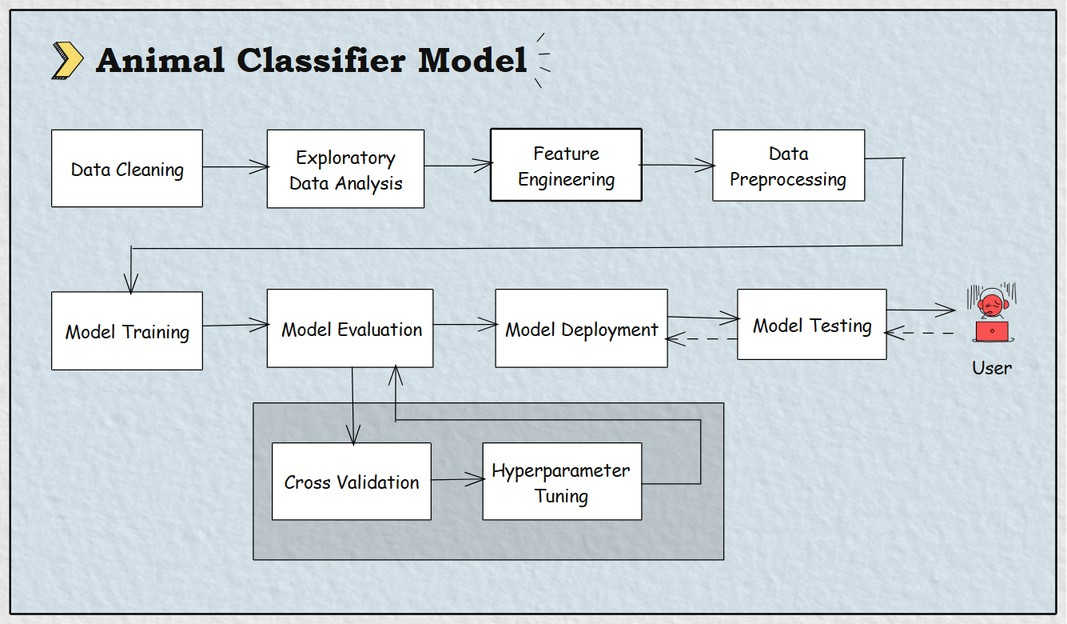
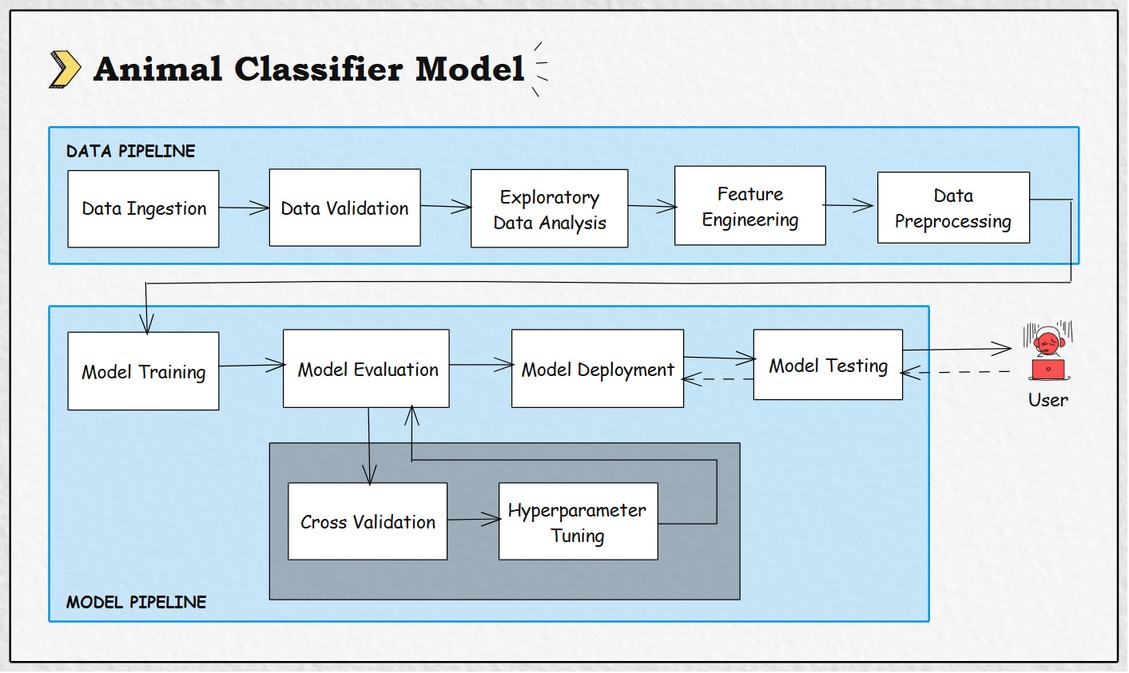
🚀add model workflow

diff --git a/README.md b/README.md
@@ -15,7 +15,7 @@
 
 - [Overview](#overview)
 - [Datasets](#datasets)
-- [MLOps Pipeline](#mlops-pipeline)
+- [Model Workflow](#model-workflow)
 - [Setup & Installation](#setup--installation)
     - [Clone repo](#step-1-clone-the-repository)
     - [Create Virtual Environment](#step-2-create-virtual-environment)
@@ -63,9 +63,9 @@ The main dataset used is [zoo_animals_data.csv](./zoo_animals_data.csv), which c
 | class_name   | Class name (label)    |
 
 
-## MLOps Pipeline
+## Model Workflow
 
-<img src="./assets//classifier-arch-new.jpg" alt="mlops architecture" />
+<img src="./assets//classifier-arch-new.jpg" alt="model workflow" />
 
 
 ## Project Structure
